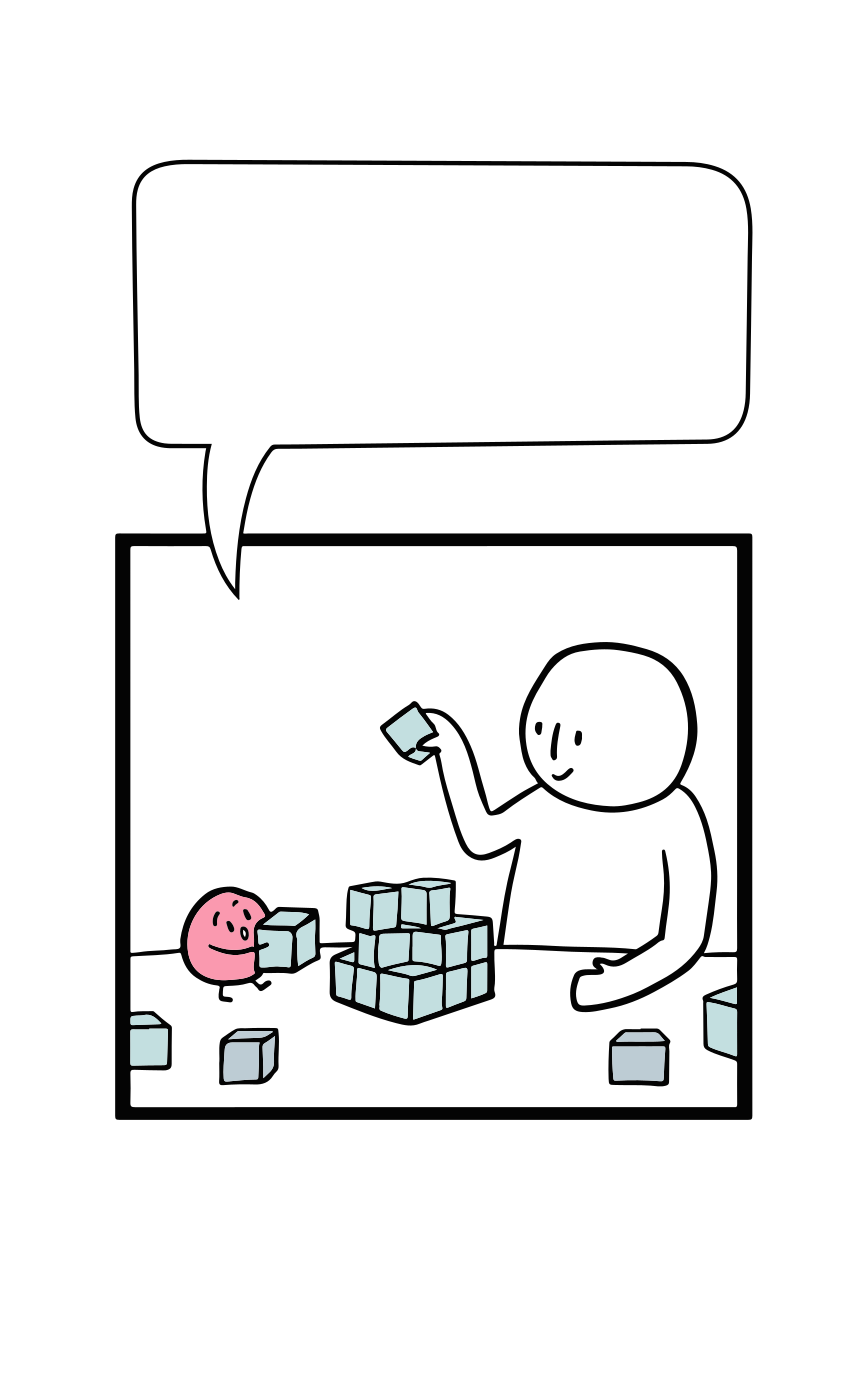
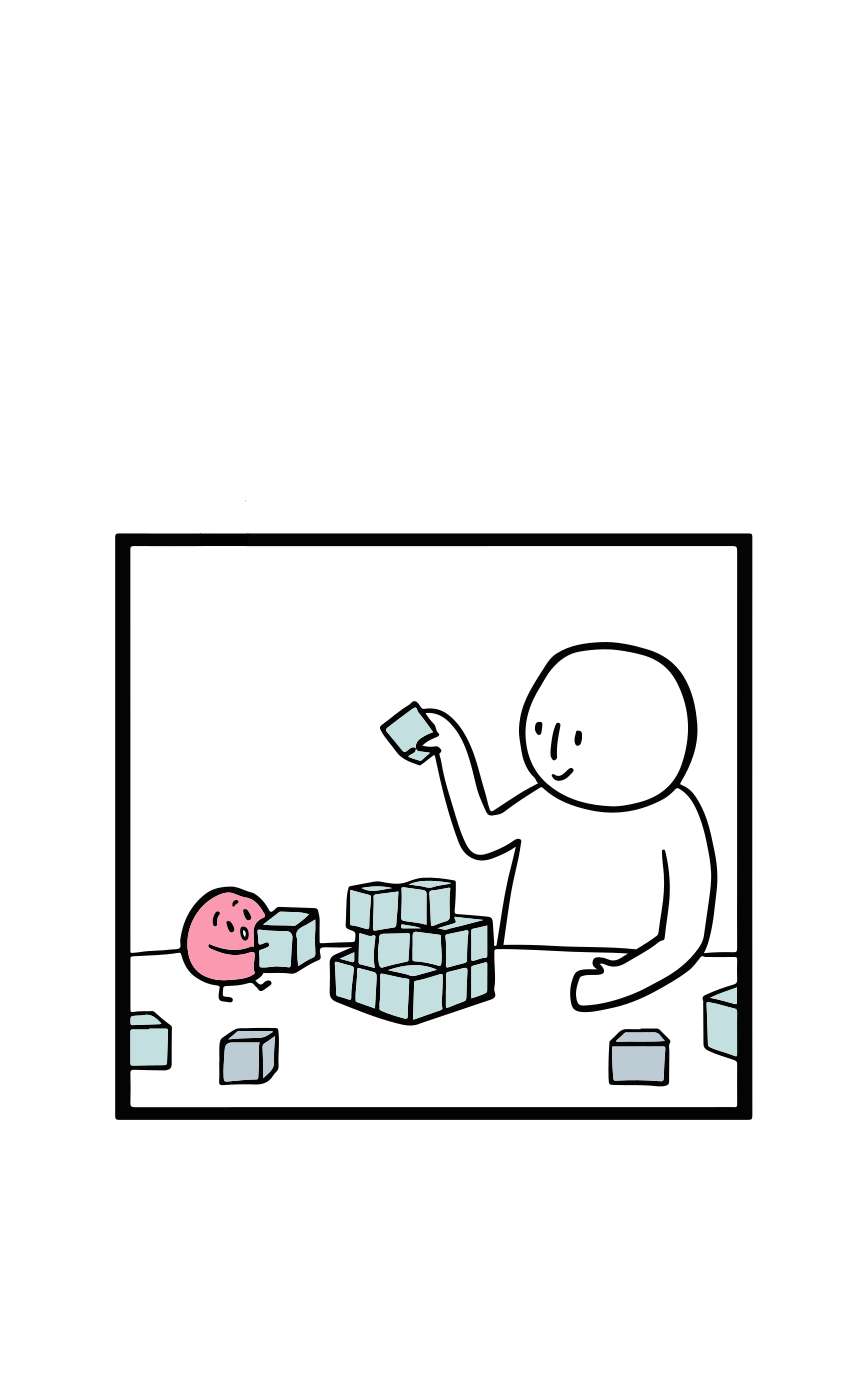
Add text to bordered box, change onboarding imgs

diff --git a/lib/src/onboarding/comic_page.dart b/lib/src/onboarding/comic_page.dart
@@ -37,7 +37,20 @@ class ComicPage extends StatelessWidget {
   Widget build(BuildContext context) {
     // This children change depending on page number, so build them first
     final List<Widget> children = [
-      Container(child: Text(text)),
+      Container(
+        child: Text(
+          text,
+          style: TextStyle(fontSize: 24.0),
+        ),
+        margin: const EdgeInsets.all(15.0),
+        padding: const EdgeInsets.all(25.0),
+        decoration: BoxDecoration(
+            borderRadius: BorderRadius.all(Radius.circular(15)),
+            border: Border.all(
+              width: 3.0,
+              color: Colors.black,
+            )),
+      ),
       Expanded(child: Image(image: AssetImage(comicPage), fit: BoxFit.contain)),
       Container(
           padding: const EdgeInsets.symmetric(horizontal: 8, vertical: 16),
